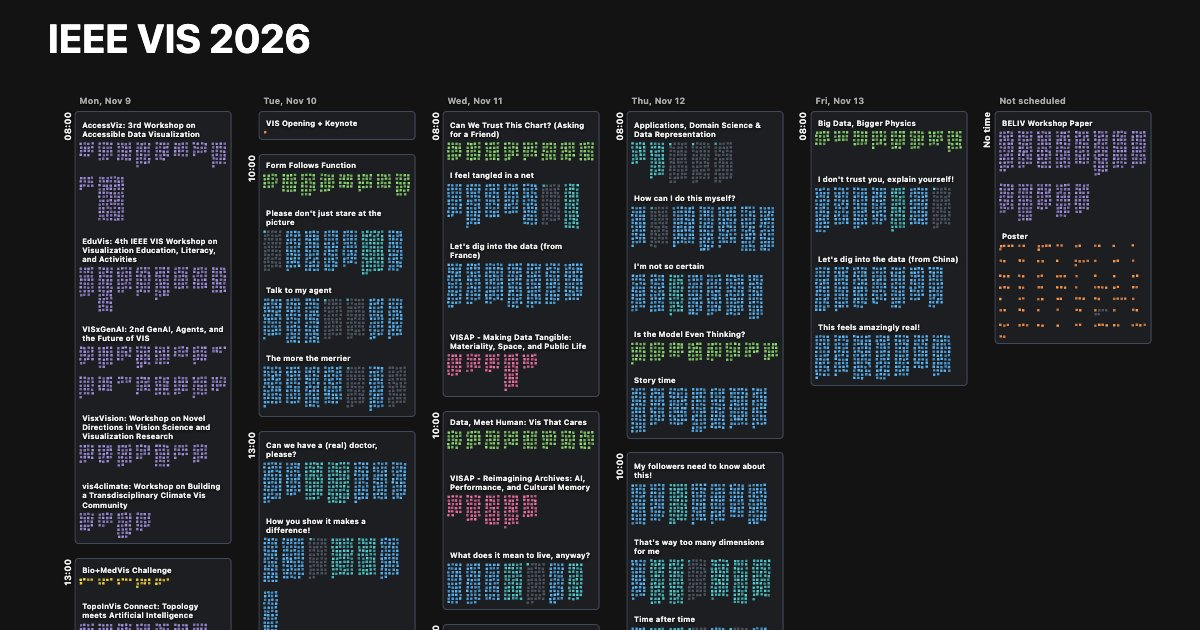
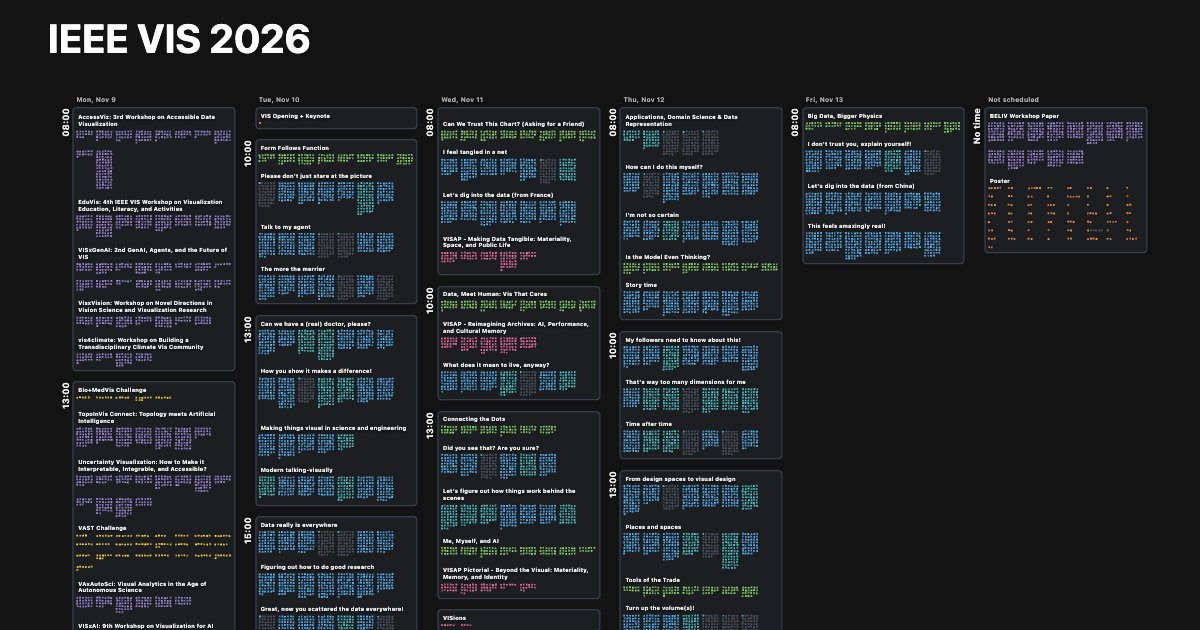
VIS map: every paper six squares wide, so length shows as height alone
Papers were four to seven squares wide, capped at twelve rows, and four
against five columns was hard to tell apart. Every paper is now six wide and
as tall as it needs; a day fits eight papers across, as it fit eight
four-wide ones, so sessions wrap no sooner. A session's name fits more
characters a line on the wider day.

The VIS share card is drawn with the stand-in texts the VIS states use; it
failed on the request for the uncommitted texts.json.

Changed region(s): [[0.0308, 0.1508, 0.9558, 1.0]]

diff --git a/apps/ieeevis/src/layout.ts b/apps/ieeevis/src/layout.ts
@@ -1,6 +1,6 @@
 // Where every piece of the program stands: days side by side, a day's time slots down its column,
-// a session's papers in lines as wide as a day, each paper's pieces in a block of at most
-// MAX_PAPER_ROWS rows that grows wider instead of taller.
+// a session's papers in lines as wide as a day, each paper's pieces in rows of one width, so its
+// height alone shows its length.
 
 import type { MapItem } from '@torahmap/engine';
 import { idHash, positionJitter } from '@torahmap/utils';
@@ -12,43 +12,29 @@ const SQUARE_SIZE = 6;
 const POSITION_JITTER = 0.7;
 export const BRIGHTNESS_JITTER = 0.18;
 
-const MIN_PAPER_COLUMNS = 4; // squares across a short paper
-const SHORT_PAPERS_PER_DAY = 8; // across a day's width, which longer papers share
-// A paper gains columns rather than height past this many rows.
-const MAX_PAPER_ROWS = 12;
+const PAPER_COLUMNS = 6; // squares across every paper
+const PAPERS_PER_DAY = 8; // across a day's width
 const PAPER_GAP = SQUARE_SIZE;
 const LINE_GAP = 2 * SQUARE_SIZE; // between one line of papers and the next
 const LABEL_ROOM = 4 * SQUARE_SIZE; // above each session, for a one-line name
 const LABEL_LINE = 3 * SQUARE_SIZE; // each further line of a name that wraps
-// Characters of a session's name that fit across a day at the label's size.
-const LABEL_LINE_CHARS = 32;
 const SLOT_GAP = 3 * SQUARE_SIZE; // between one time slot and the next
 export const PANEL_PAD = 8; // a slot's panel reaches this far past its squares, but not above its top
 // Left of a slot's panel, for its time.
 export const TIME_STRIP = 7 * SQUARE_SIZE;
 const DAY_GAP = 2 * PANEL_PAD + TIME_STRIP;
-const DAY_WIDTH =
-  SHORT_PAPERS_PER_DAY * MIN_PAPER_COLUMNS * SQUARE_SIZE + (SHORT_PAPERS_PER_DAY - 1) * PAPER_GAP;
+const DAY_WIDTH = PAPERS_PER_DAY * PAPER_COLUMNS * SQUARE_SIZE + (PAPERS_PER_DAY - 1) * PAPER_GAP;
+// Characters of a session's name that fit across a day: one is about 7.3 units wide at the label's size.
+const LABEL_LINE_CHARS = Math.floor(DAY_WIDTH / 7.3);
 
-const columnsOf = (paper: Paper): number =>
-  Math.max(MIN_PAPER_COLUMNS, Math.ceil(paper.pieces.length / MAX_PAPER_ROWS));
-const rowsOf = (paper: Paper): number => Math.ceil(paper.pieces.length / columnsOf(paper));
-const widthOf = (paper: Paper): number => columnsOf(paper) * SQUARE_SIZE;
+const rowsOf = (paper: Paper): number => Math.ceil(paper.pieces.length / PAPER_COLUMNS);
+const PAPER_WIDTH = PAPER_COLUMNS * SQUARE_SIZE;
 
 /** A session's papers in lines that each fit across a day. */
-function linesOf(papers: readonly Paper[]): Paper[][] {
-  const lines: Paper[][] = [];
-  let used = 0;
-  for (const paper of papers) {
-    if (!lines.length || used + PAPER_GAP + widthOf(paper) > DAY_WIDTH) {
-      lines.push([]);
-      used = -PAPER_GAP;
-    }
-    used += PAPER_GAP + widthOf(paper);
-    lines[lines.length - 1].push(paper);
-  }
-  return lines;
-}
+const linesOf = (papers: readonly Paper[]): Paper[][] =>
+  Array.from({ length: Math.ceil(papers.length / PAPERS_PER_DAY) }, (_, i) =>
+    papers.slice(i * PAPERS_PER_DAY, (i + 1) * PAPERS_PER_DAY),
+  );
 
 export interface PieceItem extends MapItem {
   paper: Paper;
@@ -119,13 +105,12 @@ export function computeLayout(structure: Structure): Layout {
         for (const line of linesOf(session.papers)) {
           let left = x;
           line.forEach((paper) => {
-            const columns = columnsOf(paper);
             [...paper.pieces].forEach((letter, n) => {
               const id = pieceId(paper.index, n);
               items.push({
                 id,
-                x: left + (n % columns) * SQUARE_SIZE,
-                y: y + Math.floor(n / columns) * SQUARE_SIZE,
+                x: left + (n % PAPER_COLUMNS) * SQUARE_SIZE,
+                y: y + Math.floor(n / PAPER_COLUMNS) * SQUARE_SIZE,
                 size: SQUARE_SIZE,
                 jitter: positionJitter(idHash(id), POSITION_JITTER),
                 paper,
@@ -135,7 +120,7 @@ export function computeLayout(structure: Structure): Layout {
                 section: letter as Section,
               });
             });
-            left += widthOf(paper) + PAPER_GAP;
+            left += PAPER_WIDTH + PAPER_GAP;
           });
           y += Math.max(...line.map(rowsOf)) * SQUARE_SIZE + LINE_GAP;
         }

diff --git a/test/layout/shareCards.spec.ts b/test/layout/shareCards.spec.ts
@@ -2,12 +2,16 @@
 // (npm run test:layout:shots). Each camera is worked out from the layout.
 import { readFileSync, writeFileSync } from 'node:fs';
 import { test } from '../browser/fakeMap.ts';
-import { desktopOnly, openMap } from '../browser/page.ts';
+import { desktopOnly, hold, openMap } from '../browser/page.ts';
+import { standInTexts } from './visTexts.ts';
 import { computeLayout as computeTanakhLayout, getLayoutBounds } from '@torahmap/tanakh/layout.ts';
 import { computeLayout as computeVisLayout, programBox } from '@torahmap/ieeevis/layout.ts';
 import { IEEEVIS_PATH } from '@torahmap/ieeevis/page.ts';
 import { STRUCTURE_FILE as TANAKH_STRUCTURE } from '@torahmap/tanakh/verseTexts.ts';
-import { STRUCTURE_FILE as VIS_STRUCTURE } from '@torahmap/ieeevis/data.ts';
+import {
+  STRUCTURE_FILE as VIS_STRUCTURE,
+  TEXTS_FILE as VIS_TEXTS,
+} from '@torahmap/ieeevis/data.ts';
 
 const CARD = { width: 1200, height: 630 };
 /** Screen pixels left clear around the map, and above it for a title. */
@@ -75,6 +79,7 @@ test.describe('share cards', () => {
   });
 
   test('the VIS card shows the days across and the top of each', async ({ page }) => {
+    (await hold(page, [VIS_TEXTS], JSON.stringify(standInTexts())))();
     const laid = computeVisLayout(readJson(VIS_STRUCTURE) as never);
     await draw(page, {
       path: IEEEVIS_PATH,

diff --git a/apps/ieeevis/test/layout.test.ts b/apps/ieeevis/test/layout.test.ts
@@ -79,10 +79,10 @@ describe('a long paper', () => {
   const mine = laid.items.filter((item) => item.paper === long);
   const spread = (values: number[]) => Math.max(...values) - Math.min(...values);
 
-  it('grows wider rather than taller than its neighbours', () => {
+  it('is as wide as its neighbours and taller', () => {
     const neighbour = laid.items.filter((item) => item.paper === others[0]);
-    expect(spread(mine.map((i) => i.y))).toBeLessThanOrEqual(spread(neighbour.map((i) => i.y)) * 2);
-    expect(spread(mine.map((i) => i.x))).toBeGreaterThan(spread(neighbour.map((i) => i.x)));
+    expect(spread(mine.map((i) => i.x))).toBe(spread(neighbour.map((i) => i.x)));
+    expect(spread(mine.map((i) => i.y))).toBeGreaterThan(spread(neighbour.map((i) => i.y)));
   });
 
   it('keeps every line of papers inside its panel', () => {
